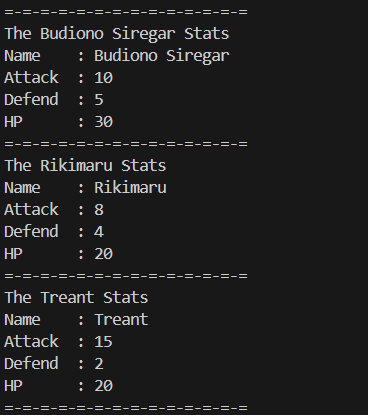
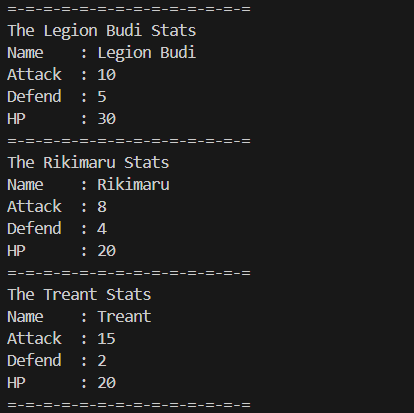
change the stats and naming

Changed region(s): [[0.0, 0.0, 0.6875, 0.6683], [0.0, 0.6973, 0.6576, 0.9879], [0.4783, 0.0, 0.5978, 0.0291]]

diff --git a/main-field.py b/main-field.py
@@ -4,7 +4,7 @@ from monster import mons_stats
 
 if __name__ == "__main__":
     # Create a player and a monster
-    player = char_stats("Budiono Siregar", atk=10, df=5, hp=30)
+    player = char_stats("Legion Budi", atk=10, df=5, hp=30)
     monster1 = mons_stats("Rikimaru", atk=8, df=4, hp=20)
     monster2 = mons_stats("Treant", atk=15, df=2, hp=20)
     
